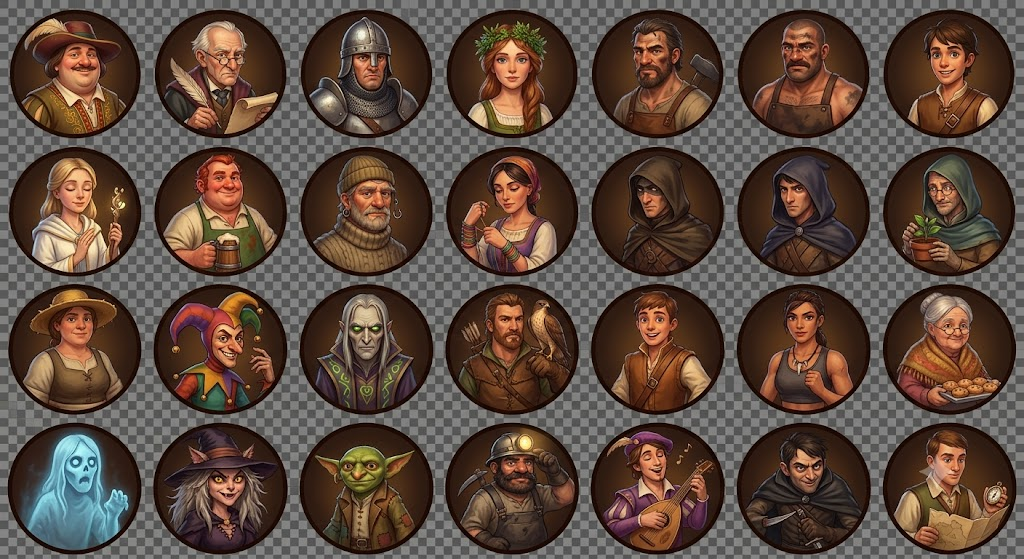
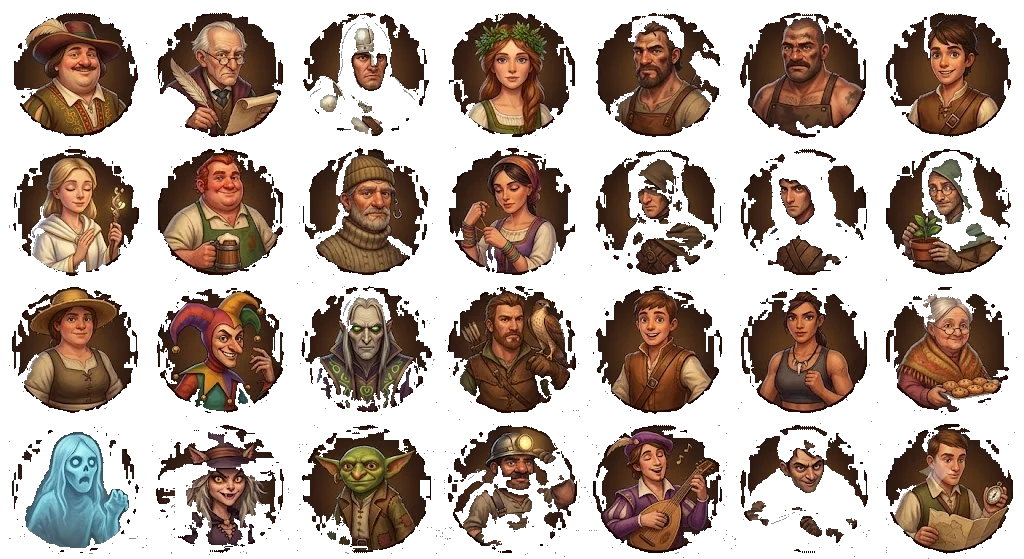
Bacheca: sprite sheet ritratti NPC (7×4, sfondo trasparente)
- Scontorna sfondo a scacchi da ritratti.webp (flood-fill BFS)
- CSS sprite sheet 7 col × 4 righe via background-position
- Mappa visiva NPC_SPRITE: 26 NPC → posizione corretta nel foglio
- Avatar ora mostra il ritratto AI per ogni NPC della bacheca
- SW bump v425

diff --git a/app.js b/app.js
@@ -4141,6 +4141,36 @@ function _drawBachecaWood(cvs) {
   ctx.fillStyle=tg; ctx.fillRect(0,0,w,h);
 }
 
+// sprite sheet: 7 cols × 4 rows (ritratti.webp), [col, row] per NPC
+const NPC_SPRITE = {
+  'Miro il Mercante':         [0,0],
+  'Syl l\'Archivista':        [1,0],
+  'Gareth la Guardia':        [2,0],
+  'Netta la Droghiera':       [3,0],
+  'Bram il Fabbro':           [4,0],
+  'Rowan l\'Esploratore':     [6,0],
+  'Lira la Guaritrice':       [0,1],
+  'Odo il Taverniere':        [1,1],
+  'Finn il Pescatore':        [2,1],
+  'Tara la Tessitrice':       [3,1],
+  'Dax il Contrabbandiere':   [4,1],
+  'Orn il Botanico':          [6,1],
+  'Petra la Contadina':       [0,2],
+  'Sig il Giocoliere':        [1,2],
+  'Vex lo Stregone':          [2,2],
+  'Dane il Cacciatore':       [3,2],
+  'Clem il Cursore':          [4,2],
+  'Kira l\'Addestratrice':    [5,2],
+  'Zia Marta':                [6,2],
+  'Il Fantasma del Crocevia': [0,3],
+  'Mab la Strega':            [1,3],
+  'Hob il Goblin':            [2,3],
+  'Baldo il Minatore':        [3,3],
+  'Ylla la Cantora':          [4,3],
+  'Il Biscazziere':           [5,3],
+  'Ria la Cartografa':        [6,3],
+};
+
 function renderBacheca(c, todayKm) {
   RPG.generateDailyBoard(HERO);
   const board = HERO.board;
@@ -4189,15 +4219,11 @@ function renderBacheca(c, todayKm) {
     body.appendChild(el('span', 'bv-tier-badge', q.tier.toUpperCase()));
 
     const npcRow = el('div', 'bv-npc-row');
-    const avatar = el('div', 'bv-npc-avatar');
-    if (q.npc.img) {
-      const img = document.createElement('img');
-      img.src = `assets/npcs/${q.npc.img}.webp`;
-      img.alt = q.npc.name;
-      img.onerror = () => { img.remove(); avatar.textContent = q.npc.icon; };
-      avatar.appendChild(img);
-    } else {
-      avatar.textContent = q.npc.icon;
+    const sp = NPC_SPRITE[q.npc.name];
+    const avatar = el('div', 'bv-npc-avatar', sp ? '' : q.npc.icon);
+    if (sp) {
+      avatar.style.setProperty('--sc', sp[0]);
+      avatar.style.setProperty('--sr', sp[1]);
     }
     npcRow.appendChild(avatar);
     npcRow.appendChild(el('span', 'bv-npc-name', esc(q.npc.name)));

diff --git a/style.css b/style.css
@@ -8330,21 +8330,16 @@ img.fiche-inline {
   margin-bottom: 6px;
 }
 .bv-npc-avatar {
-  width: 36px; height: 36px;
+  width: 38px; height: 38px;
   border-radius: 50%;
   flex-shrink: 0;
-  border: 1.5px solid rgba(80,45,10,.3);
-  box-shadow: 0 1px 4px rgba(0,0,0,.25);
   overflow: hidden;
   display: flex; align-items: center; justify-content: center;
   font-size: .9rem;
   color: #221008;
-  background: rgba(255,245,220,.6);
-}
-.bv-npc-avatar img {
-  width: 100%; height: 100%;
-  object-fit: cover;
-  object-position: center top;
+  background-image: url('assets/npcs/ritratti.webp');
+  background-size: 700% 400%;
+  background-position: calc(var(--sc, 0) * 100% / 6) calc(var(--sr, 0) * 100% / 3);
 }
 .bv-npc-name {
   font-family: 'Cinzel', serif;

diff --git a/sw.js b/sw.js
@@ -5,7 +5,7 @@
 
 
 
-const CACHE = "heropace-v424";
+const CACHE = "heropace-v425";
 const NOTIF_CACHE = 'heropace-notif-v1'; // stato notifiche (non cancellare mai)
 
 /* File locali per fallback offline */
